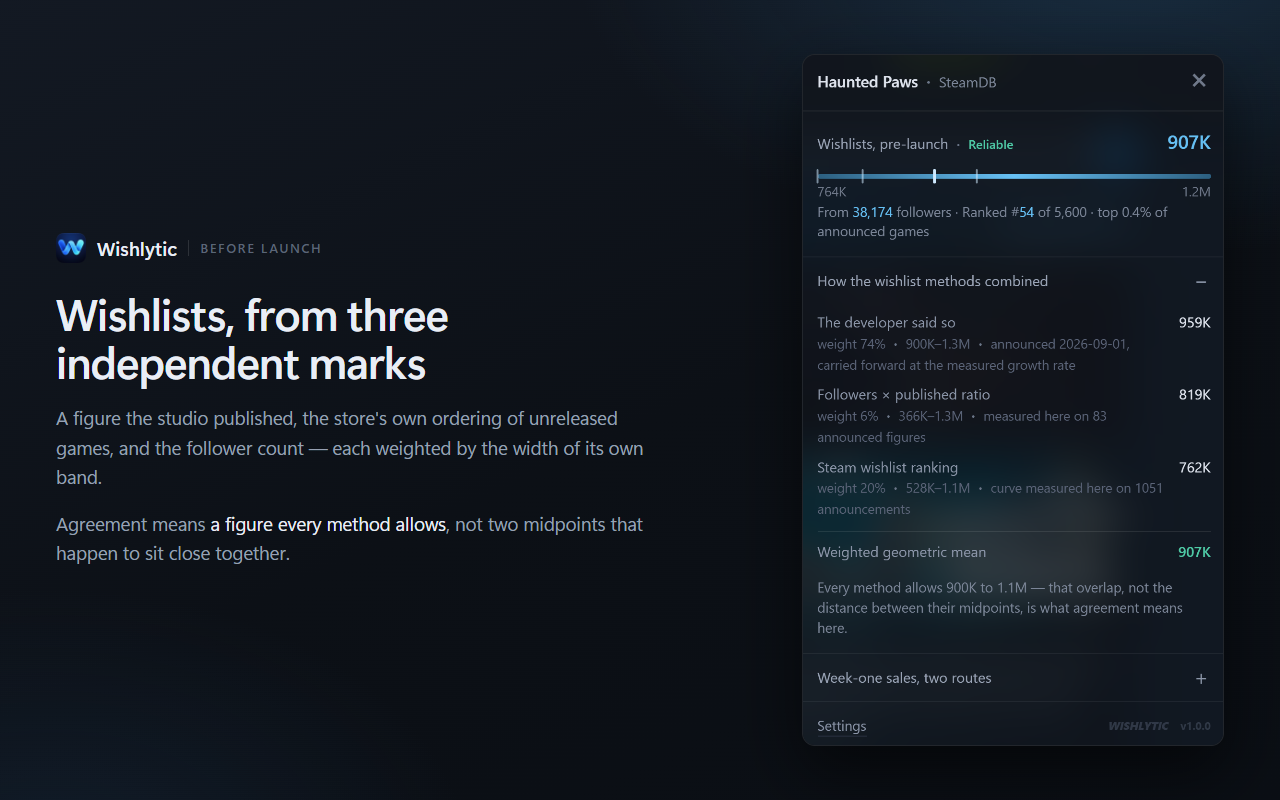
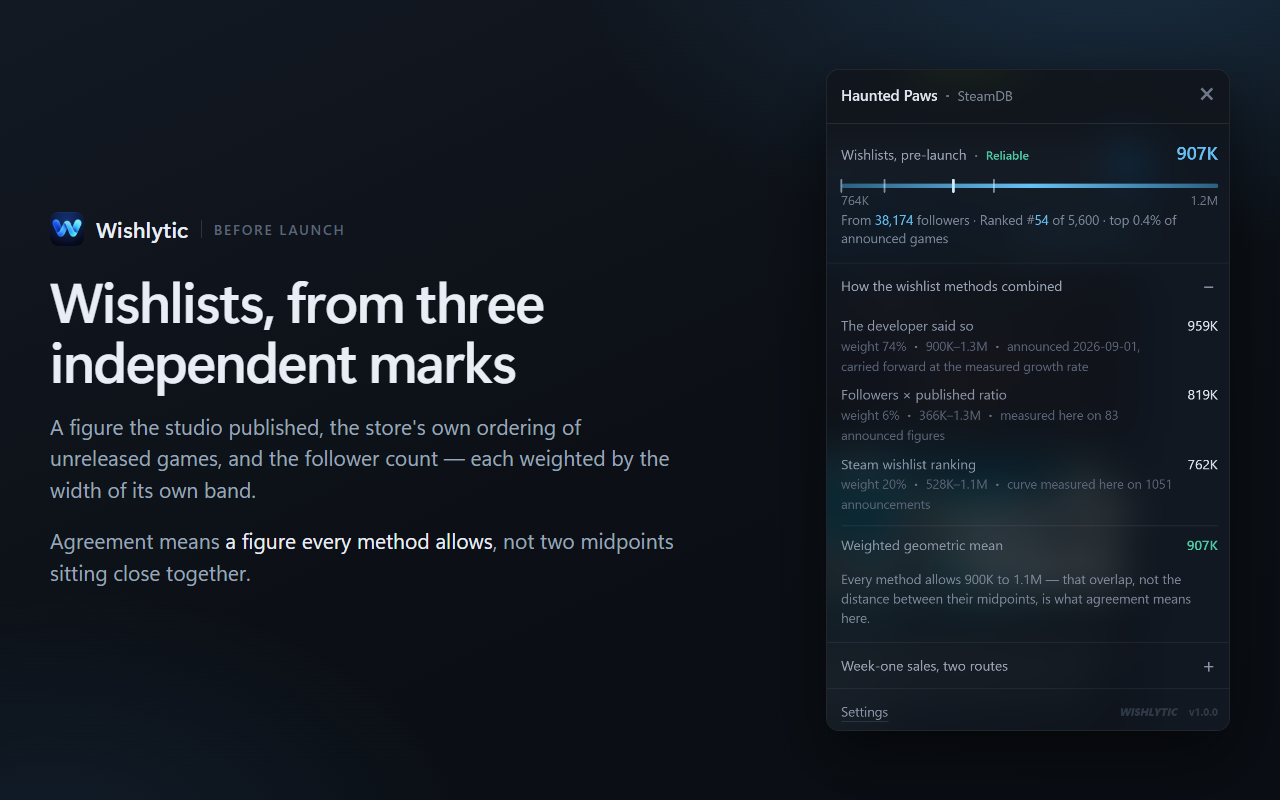
Size the listing text to be read, and add the promotional tiles
The tiles were typed for a README, where the reader is a click away from
the file at full size. The store is not that: it scales every screenshot
to one height and fits as many as the row allows, so a 1280x800 tile is
rendered at 535x335 — checked against a listing that does it, whose
screenshots are the same 1280x800 as ours. At that size a 44px headline
is 18px and the body is 8. Headlines are 56 now and the body 21, and two
headlines were shortened rather than allowed to wrap over four ragged
lines.

The same reading also settles a question the carousel raised: a listing
showing one screenshot is a listing with one uploaded, not one with the
wrong size.

Crops now land on measured boundaries instead of estimates. The panel's
blocks run head 0-64, units 64-165, gross 165-318, net 318-419, followers
419-555, reviews 555-679, players 679-833 in the CSS pixels the overlay
was laid out in, read off the live panel rather than eyeballed, and every
frame height in tiles.html is one of those numbers — so no tile ends
through a row of figures. The 12px of store page each panel shot keeps
down its sides is cropped off inside the frames, where it read as a
smudge rather than as an overlay.

The 440x280 tile is required: the store ranks listings without one behind
listings with one. The 1400x560 marquee is not, but a featured placement
needs it, and neither can be composed from a screenshot alone — both are
the wordmark over a window onto the same photographs, sized to survive
[…]

diff --git a/screenshots/store/tiles.html b/screenshots/store/tiles.html
@@ -2,8 +2,15 @@
 <meta charset="utf-8">
 <title>Chrome Web Store tiles</title>
 <!--
-  The five listing screenshots, at the size the store demands: 1280 x 800,
-  rendered one at a time by store.mjs with ?tile=<n>.
+  Everything the store listing shows, at the sizes the store demands, rendered
+  one at a time by store.mjs with ?tile=<id>:
+
+    1..5      the listing screenshots, 1280 x 800
+    small     the small promotional tile, 440 x 280 — required by the store
+    marquee   the featured-placement tile, 1400 x 560 — optional
+
+  Each section carries its own canvas size in data-w / data-h; the script at
+  the bottom sizes the page to the one being rendered.
 
   The artwork is the PNGs one directory up, which are photographs of the real
   overlay on a real store page. Nothing here draws a figure of its own: the
@@ -12,15 +19,28 @@
 <style>
   :root {
     --ink: #e9eef6;
-    --muted: #97a1b3;
+    --muted: #9aa6b8;
     --faint: #5b6577;
     --accent: #66c0f4;
     --good: #4ec9a5;
+
+    /*
+     * The shots next door, measured in the CSS pixels the overlay was laid
+     * out in: released.png is 469 x 1184 of them, steam-page-wide.png
+     * 740 x 304. The crops below are expressed in the same units.
+     *
+     * Inside released.png the panel starts 12px in from the left, and its
+     * blocks run head 0-64, units 64-165, gross 165-318, net 318-419,
+     * followers 419-555, reviews 555-679, players 679-833. Every crop and
+     * every frame height below lands on one of those boundaries.
+     */
+    --panel-w: 469px;   --panel-h: 1184px;
+    --page-w: 740px;    --page-h: 304px;
   }
 
   * { box-sizing: border-box; margin: 0; padding: 0; }
 
-  html, body { width: 1280px; height: 800px; overflow: hidden; }
+  html, body { overflow: hidden; }
 
   body {
     background:
@@ -34,52 +54,51 @@
     -webkit-font-smoothing: antialiased;
   }
 
-  .tile { display: none; width: 1280px; height: 800px; padding: 54px 56px; }
+  .tile { display: none; width: 100%; height: 100%; padding: 52px 50px; }
   .tile.on { display: grid; }
 
   /* Four of the five put the words beside the picture; the first one puts
      them above it, because its picture is a whole store page. */
-  .tile.beside { grid-template-columns: 1fr auto; gap: 54px; align-items: center; }
+  .tile.beside { grid-template-columns: 1fr auto; gap: 44px; align-items: center; }
   /* Words above the picture, and the picture pinned to the bottom of what is
      left, so a longer headline eats the gap rather than the screenshot. */
-  .tile.above { grid-template-rows: auto 1fr; gap: 22px; }
+  .tile.above { grid-template-rows: auto 1fr; gap: 20px; }
 
-  .brand { display: flex; align-items: center; gap: 11px; margin-bottom: 26px; }
-  .brand img { width: 30px; height: 30px; }
+  .brand { display: flex; align-items: center; gap: 12px; margin-bottom: 24px; }
+  .brand img { width: 34px; height: 34px; }
   .brand b {
     font-family: "Segoe UI Variable Display", "Segoe UI", sans-serif;
-    font-size: 19px; font-weight: 600; letter-spacing: .1px;
+    font-size: 22px; font-weight: 600; letter-spacing: .1px;
   }
   .brand span {
-    font-size: 12.5px; color: var(--faint); letter-spacing: .15em;
-    text-transform: uppercase; font-weight: 600; padding-left: 11px;
-    border-left: 1px solid rgba(255, 255, 255, .12);
+    font-size: 13.5px; color: var(--faint); letter-spacing: .15em;
+    text-transform: uppercase; font-weight: 600; padding-left: 12px;
+    border-left: 1px solid rgba(255, 255, 255, .13);
   }
 
   h1 {
     font-family: "Segoe UI Variable Display", "Segoe UI Variable Text", "Segoe UI",
       -apple-system, BlinkMacSystemFont, sans-serif;
-    font-size: 44px; line-height: 1.1; font-weight: 600; letter-spacing: -.9px;
+    font-size: 56px; line-height: 1.08; font-weight: 600; letter-spacing: -1.4px;
     /* Chrome evens out the lines rather than leaving one word on the last. */
     text-wrap: balance;
   }
-  .above h1 { font-size: 42px; }
+  .above h1 { font-size: 54px; }
 
-  p, li { font-size: 18.5px; line-height: 1.58; color: var(--muted); max-width: 33em; }
-  p { margin-top: 18px; }
-  .above p { margin-top: 12px; max-width: 78ch; }
+  p, li { font-size: 21px; line-height: 1.5; color: var(--muted); max-width: 30em; }
+  p { margin-top: 20px; }
+  .above p { margin-top: 14px; max-width: 900px; }
 
-  ul { margin-top: 22px; list-style: none; display: grid; gap: 13px; }
-  li { position: relative; padding-left: 22px; }
+  ul { margin-top: 26px; list-style: none; display: grid; gap: 16px; }
+  li { position: relative; padding-left: 26px; }
   li::before {
-    content: ''; position: absolute; left: 2px; top: .62em;
-    width: 7px; height: 7px; border-radius: 50%; background: var(--accent);
+    content: ''; position: absolute; left: 2px; top: .6em;
+    width: 8px; height: 8px; border-radius: 50%; background: var(--accent);
   }
 
   em { font-style: normal; color: var(--ink); }
-  .green { color: var(--good); }
 
-  /* One shared frame, so the five pictures sit on the page the same way. */
+  /* One shared frame, so the pictures sit on the page the same way. */
   .shot {
     overflow: hidden; border-radius: 13px;
     border: 1px solid rgba(255, 255, 255, .08);
@@ -88,33 +107,74 @@
   }
   .shot img { display: block; width: 100%; height: 100%; object-fit: cover; }
 
-  /* Per tile: how much of a tall panel is in frame, and from which end. */
   /* 2.43:1, the ratio steam-page-wide.png was framed at, so the layout
      never re-crops what the shot already chose. */
-  .shot.page   { width: 1168px; height: 480px; align-self: end; }
+  .shot.page   { width: 1180px; height: 486px; align-self: end; }
   .shot.page img { object-position: 100% 100%; }
+
   /*
    * The panel shots keep 12 CSS px of store page down each side, which is
    * what makes them read as an overlay in the README and what reads as a
    * smudge inside a frame here. So the image is laid out wider than its frame
-   * and pulled left by half the difference, which crops both slivers: a 445px
-   * panel inside a 469px picture, scaled until the panel alone fills the
-   * width.
+   * and pulled left by half the difference, which crops both slivers.
    *
-   * The heights are chosen the same way — 540 CSS px of panel at 1.213x, and
-   * the whole 729px one at 0.949x — so the crop lands under the divider below
-   * the follower note rather than through a row of figures.
+   * The heights are chosen the same way, so the crop lands under a divider
+   * rather than through a row of figures.
    */
-  .shot.panel  { width: 540px; height: 687px; }
-  .shot.panel img { width: 575px; margin-left: -17.5px; object-position: 50% 0; }
-  .shot.whole  { width: 422px; height: 692px; }
-  .shot.whole img { width: 450px; margin-left: -14px; }
-  .shot.card   { width: 604px; height: auto; }
-  .shot.card.big { width: 688px; }
+  .shot.panel  { width: 500px; height: 624px; }
+  .shot.panel img { width: 532px; margin-left: -16px; object-position: 50% 0; }
+  .shot.whole  { width: 404px; height: 662px; }
+  .shot.whole img { width: 431px; margin-left: -13.5px; }
+  .shot.card   { width: 556px; height: auto; }
+  .shot.card.big { width: 620px; }
   .shot.card img { height: auto; }
+
+  /*
+   * A window onto one block of a shot: the frame is the size that block
+   * should appear at, and the picture behind it is scaled by --k and slid so
+   * the block lands in the frame. Cropping this way keeps the promotional
+   * tiles on the same photographs as everything else.
+   */
+  .crop {
+    border-radius: 12px; border: 1px solid rgba(255, 255, 255, .08);
+    box-shadow: 0 18px 44px rgba(0, 0, 0, .5);
+    background-repeat: no-repeat;
+  }
+  .crop.pill {
+    /* The collapsed glance row, out of the wide page shot. */
+    --k: 1.3;
+    width: calc(295px * var(--k)); height: calc(67px * var(--k));
+    background-image: url(../steam-page-wide.png);
+    background-size: calc(var(--page-w) * var(--k)) calc(var(--page-h) * var(--k));
+    background-position: calc(-425px * var(--k)) calc(-217px * var(--k));
+  }
+  .crop.figures {
+    /* Units and gross, cut at the divider above the net row: two blocks large
+       enough to read at half size beat three that are not. */
+    --k: 1.55;
+    width: calc(445px * var(--k)); height: calc(254px * var(--k));
+    background-image: url(../released.png);
+    background-size: calc(var(--panel-w) * var(--k)) calc(var(--panel-h) * var(--k));
+    background-position: calc(-12px * var(--k)) calc(-64px * var(--k));
+  }
+
+  /* The two promotional tiles are their own layouts; neither is a screenshot,
+     and both have to survive being shown at half size. */
+  .promo.small { padding: 26px 28px; align-content: center; }
+  .promo.small .brand { margin-bottom: 18px; gap: 10px; }
+  .promo.small .brand img { width: 30px; height: 30px; }
+  .promo.small .brand b { font-size: 21px; }
+  .promo.small .tag { margin-top: 16px; font-size: 15.5px; color: var(--muted); }
+  .promo.marquee {
+    padding: 56px 60px; grid-template-columns: 1fr auto; gap: 56px;
+    align-items: center;
+  }
+  .promo.marquee h1 { font-size: 50px; }
+  .promo.marquee .brand img { width: 38px; height: 38px; }
+  .promo.marquee .brand b { font-size: 25px; }
 </style>
 
-<section class="tile above" data-tile="1">
+<section class="tile above" data-tile="1" data-w="1280" data-h="800">
   <div>
     <div class="brand">
       <img src="../../icons/icon-128.png" alt="">
@@ -127,27 +187,26 @@
   <div class="shot page"><img src="../steam-page-wide.png" alt=""></div>
 </section>
 
-<section class="tile beside" data-tile="2">
+<section class="tile beside" data-tile="2" data-w="1280" data-h="800">
   <div>
     <div class="brand">
       <img src="../../icons/icon-128.png" alt="">
       <b>Wishlytic</b>
       <span>Units &amp; revenue</span>
     </div>
-    <h1>A range, not a number pretending to be exact</h1>
+    <h1>A range, not fake precision</h1>
     <ul>
-      <li><em>Units sold, gross revenue, and what reaches the developer</em> — each on a scale
-        with its low and high end.</li>
-      <li>A tick mark for <em>every method that contributed</em>, so you can see how far apart
-        they landed before they were averaged.</li>
-      <li>A verdict that scores <em>the evidence</em>: how many independent methods agree, and
-        whether anything contradicts them.</li>
+      <li><em>Units sold, gross revenue and what reaches the developer</em>, each with a low
+        and a high end.</li>
+      <li>A tick for <em>every method that contributed</em>, so you see how far apart they
+        landed before they were averaged.</li>
+      <li>A verdict that scores <em>the evidence</em>, not the width of the bar.</li>
     </ul>
   </div>
   <div class="shot panel"><img src="../released.png" alt=""></div>
 </section>
 
-<section class="tile beside" data-tile="3">
+<section class="tile beside" data-tile="3" data-w="1280" data-h="800">
   <div>
     <div class="brand">
       <img src="../../icons/icon-128.png" alt="">
@@ -156,14 +215,13 @@
     </div>
     <h1>Valve's cut is tiered, not a flat 30%</h1>
     <p>Discount, regional pricing and VAT, refunds, and only then a <em>30/25/20 royalty on
-      adjusted gross</em> — every deduction between the sticker price and the developer's bank
-      account, named and sized.</p>
+      adjusted gross</em> — every deduction named and sized.</p>
     <p>Taking a flat 30% off the list price instead inflates the answer by roughly 60%.</p>
   </div>
   <div class="shot card"><img src="../waterfall.png" alt=""></div>
 </section>
 
-<section class="tile beside" data-tile="4">
+<section class="tile beside" data-tile="4" data-w="1280" data-h="800">
   <div>
     <div class="brand">
       <img src="../../icons/icon-128.png" alt="">
@@ -173,13 +231,13 @@
     <h1>Wishlists, from three independent marks</h1>
     <p>A figure the studio published, the store's own ordering of unreleased games, and the
       follower count — each weighted by the width of its own band.</p>
-    <p>Agreement means <em>a figure every method allows</em>, not two midpoints that happen to
-      sit close together.</p>
+    <p>Agreement means <em>a figure every method allows</em>, not two midpoints sitting close
+      together.</p>
   </div>
   <div class="shot whole"><img src="../wishlists.png" alt=""></div>
 </section>
 
-<section class="tile beside" data-tile="5">
+<section class="tile beside" data-tile="5" data-w="1280" data-h="800">
   <div>
     <div class="brand">
       <img src="../../icons/icon-128.png" alt="">
@@ -189,10 +247,34 @@
     <h1>No coefficient without a source</h1>
     <p>Every multiplier traces to a published study, and the panel shows the chain: the band
       for the release year, what moved it, and what it came to.</p>
-    <p>Where a study established an effect but never sized it, <em>our own figure is marked as
-      ours</em> rather than dressed up as research.</p>
+    <p>Where a study established an effect but never sized it, <em>our figure is marked as
+      ours</em>.</p>
   </div>
   <div class="shot card big"><img src="../multiplier.png" alt=""></div>
+</section>
+
+<section class="tile promo small" data-tile="small" data-w="440" data-h="280">
+  <div>
+    <div class="brand">
+      <img src="../../icons/icon-128.png" alt="">
+      <b>Wishlytic</b>
+    </div>
+    <div class="crop pill"></div>
+    <div class="tag">Steam revenue, units and wishlists — as ranges.</div>
+  </div>
+</section>
+
+<section class="tile promo marquee" data-tile="marquee" data-w="1400" data-h="560">
+  <div>
+    <div class="brand">
+      <img src="../../icons/icon-128.png" alt="">
+      <b>Wishlytic</b>
+    </div>
+    <h1>Steam revenue, as a range</h1>
+    <p>Units sold, what buyers paid, what reaches the developer, and wishlists before launch —
+      every coefficient traceable to a published study.</p>
+  </div>
+  <div class="crop figures"></div>
 </section>
 
 <script>
@@ -200,4 +282,9 @@
   const tile = document.querySelector(`.tile[data-tile="${wanted}"]`);
   if (!tile) throw new Error(`no tile ${wanted}`);
   tile.classList.add('on');
+  // The canvas is whatever this tile is specified at, not one fixed size.
+  for (const el of [document.documentElement, document.body]) {
+    el.style.width = `${tile.dataset.w}px`;
+    el.style.height = `${tile.dataset.h}px`;
+  }
 </script>

diff --git a/screenshots/README.md b/screenshots/README.md
@@ -1,12 +1,13 @@
 # Screenshots
 
-The pictures in the project README, the five tiles of the Chrome Web Store
+The pictures in the project README, the seven images of the Chrome Web Store
 listing, and the harness that makes both.
 
 ```bash
 node screenshots/take.mjs             # retake the pictures from the inputs in inputs/
 node screenshots/take.mjs --collect   # refetch today's figures first, then retake
-node screenshots/store.mjs            # recompose the store tiles from those pictures
+node screenshots/store.mjs            # recompose the store images from those pictures
+node screenshots/store.mjs 3 small    # or just those
 ```
 
 Nothing here is a mock-up. Each shot is the shipping overlay, running the
@@ -28,7 +29,7 @@ the crawl.
 
 ```
 take.mjs      the shots, with their framing. Pictures of the overlay itself.
-store.mjs     the five listing tiles, composed from those pictures
+store.mjs     the listing images, composed from those pictures
 store/        tiles.html holds the words and the layout; the PNGs are its output
 collect.mjs   one game's inputs, from the endpoints scrape.js and the worker read
 serve.mjs     the repo over HTTP, with the headers a store page needs to import it
@@ -45,13 +46,28 @@ chain has steps in it rather than being a bare band.
 
 ## What the store requires
 
-Five screenshots at most, each exactly 1280 x 800, as a JPEG or a 24-bit PNG
-with **no alpha channel**. So the tiles render at a device scale factor of 1 —
-the pixel size is the specification here, and a 2x capture is rejected — and
-`store.mjs` checks the size and the PNG colour type of every file before
-writing it. Chrome emits 24-bit RGB for a page that paints an opaque
-background, which `tiles.html` does; a transparent one would come back as RGBA
-and fail at upload rather than here.
+| File | Size | Why it exists |
+| --- | --- | --- |
+| `1-glance` … `5-sources` | 1280 x 800 | the listing carousel; five is the maximum |
+| `promo-small-440x280` | 440 x 280 | **required.** Listings without one are shown after listings with one |
+| `promo-marquee-1400x560` | 1400 x 560 | optional, and what a featured placement needs |
+
+All of them JPEG or a 24-bit PNG with **no alpha channel**. So they render at a
+device scale factor of 1 — the pixel size is the specification here, and a 2x
+capture is rejected — and `store.mjs` checks the dimensions and the PNG colour
+type of every file before writing it. Chrome emits 24-bit RGB for a page that
+paints an opaque background, which `tiles.html` does; a transparent one would
+come back as RGBA and fail at upload rather than here.
+
+The carousel scales every screenshot to one height and fits as many as the row
+allows, so two 1280 x 800 shots sit side by side; a listing showing one is a
+listing with one uploaded, not one with the wrong size.
+
+Crops are taken on block boundaries rather than by eye. Inside `released.png`
+the panel's blocks run head 0-64, units 64-165, gross 165-318, net 318-419,
+followers 419-555, reviews 555-679, players 679-833, in the CSS pixels the
+overlay was laid out in — every frame height in `tiles.html` lands on one of
+those numbers, so nothing is ever cut through a row of figures.
 
 Headlines are set in Segoe UI Variable Display, which ships with Windows 11.
 Elsewhere they fall back to Segoe UI and then to the platform's UI face, so
